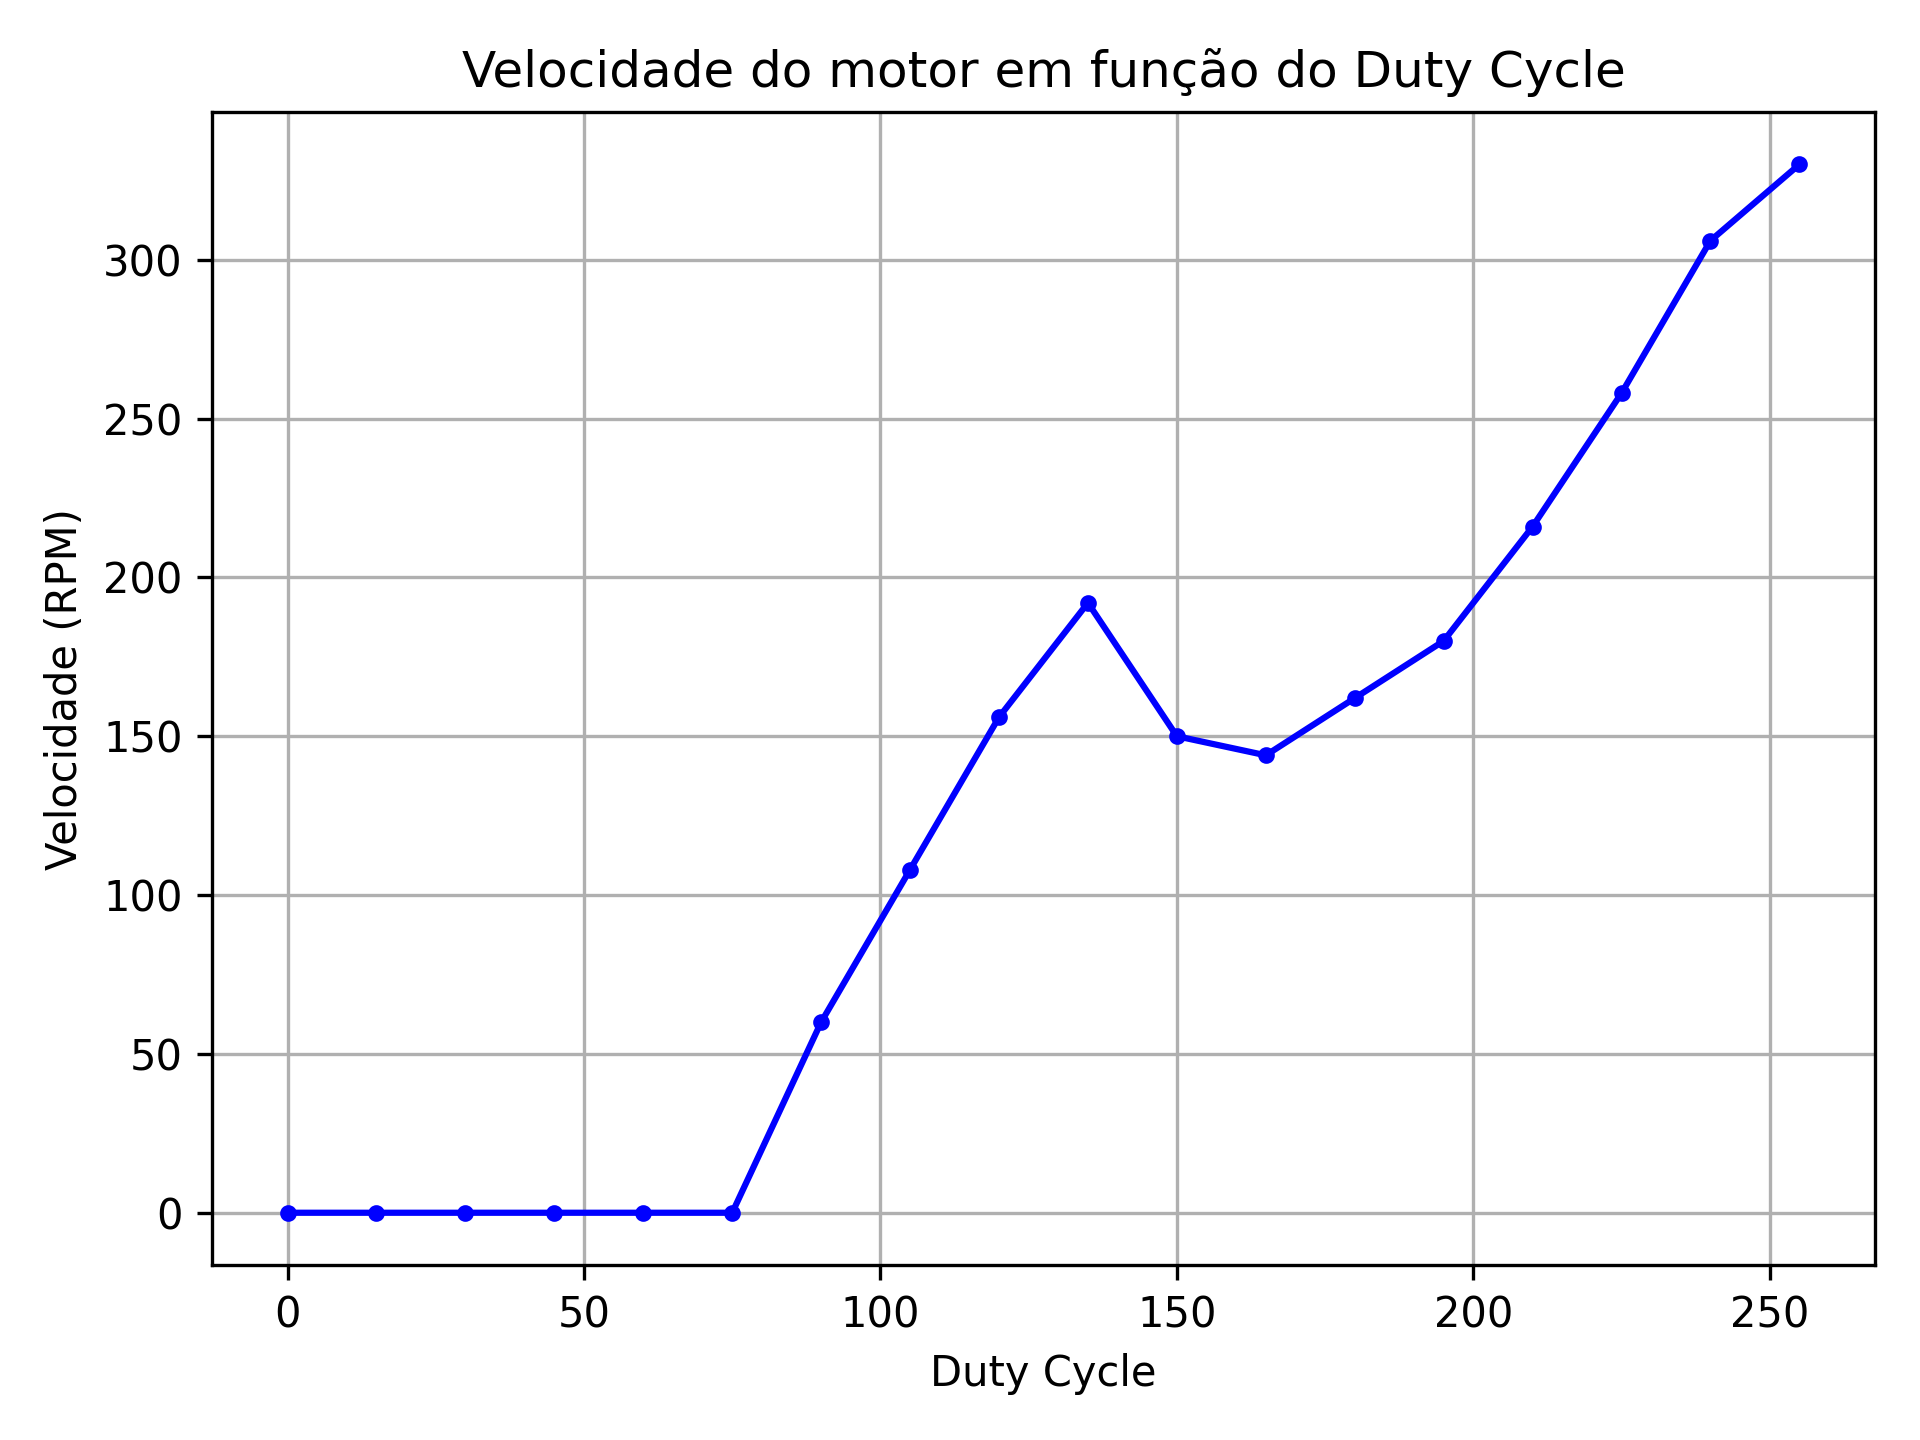
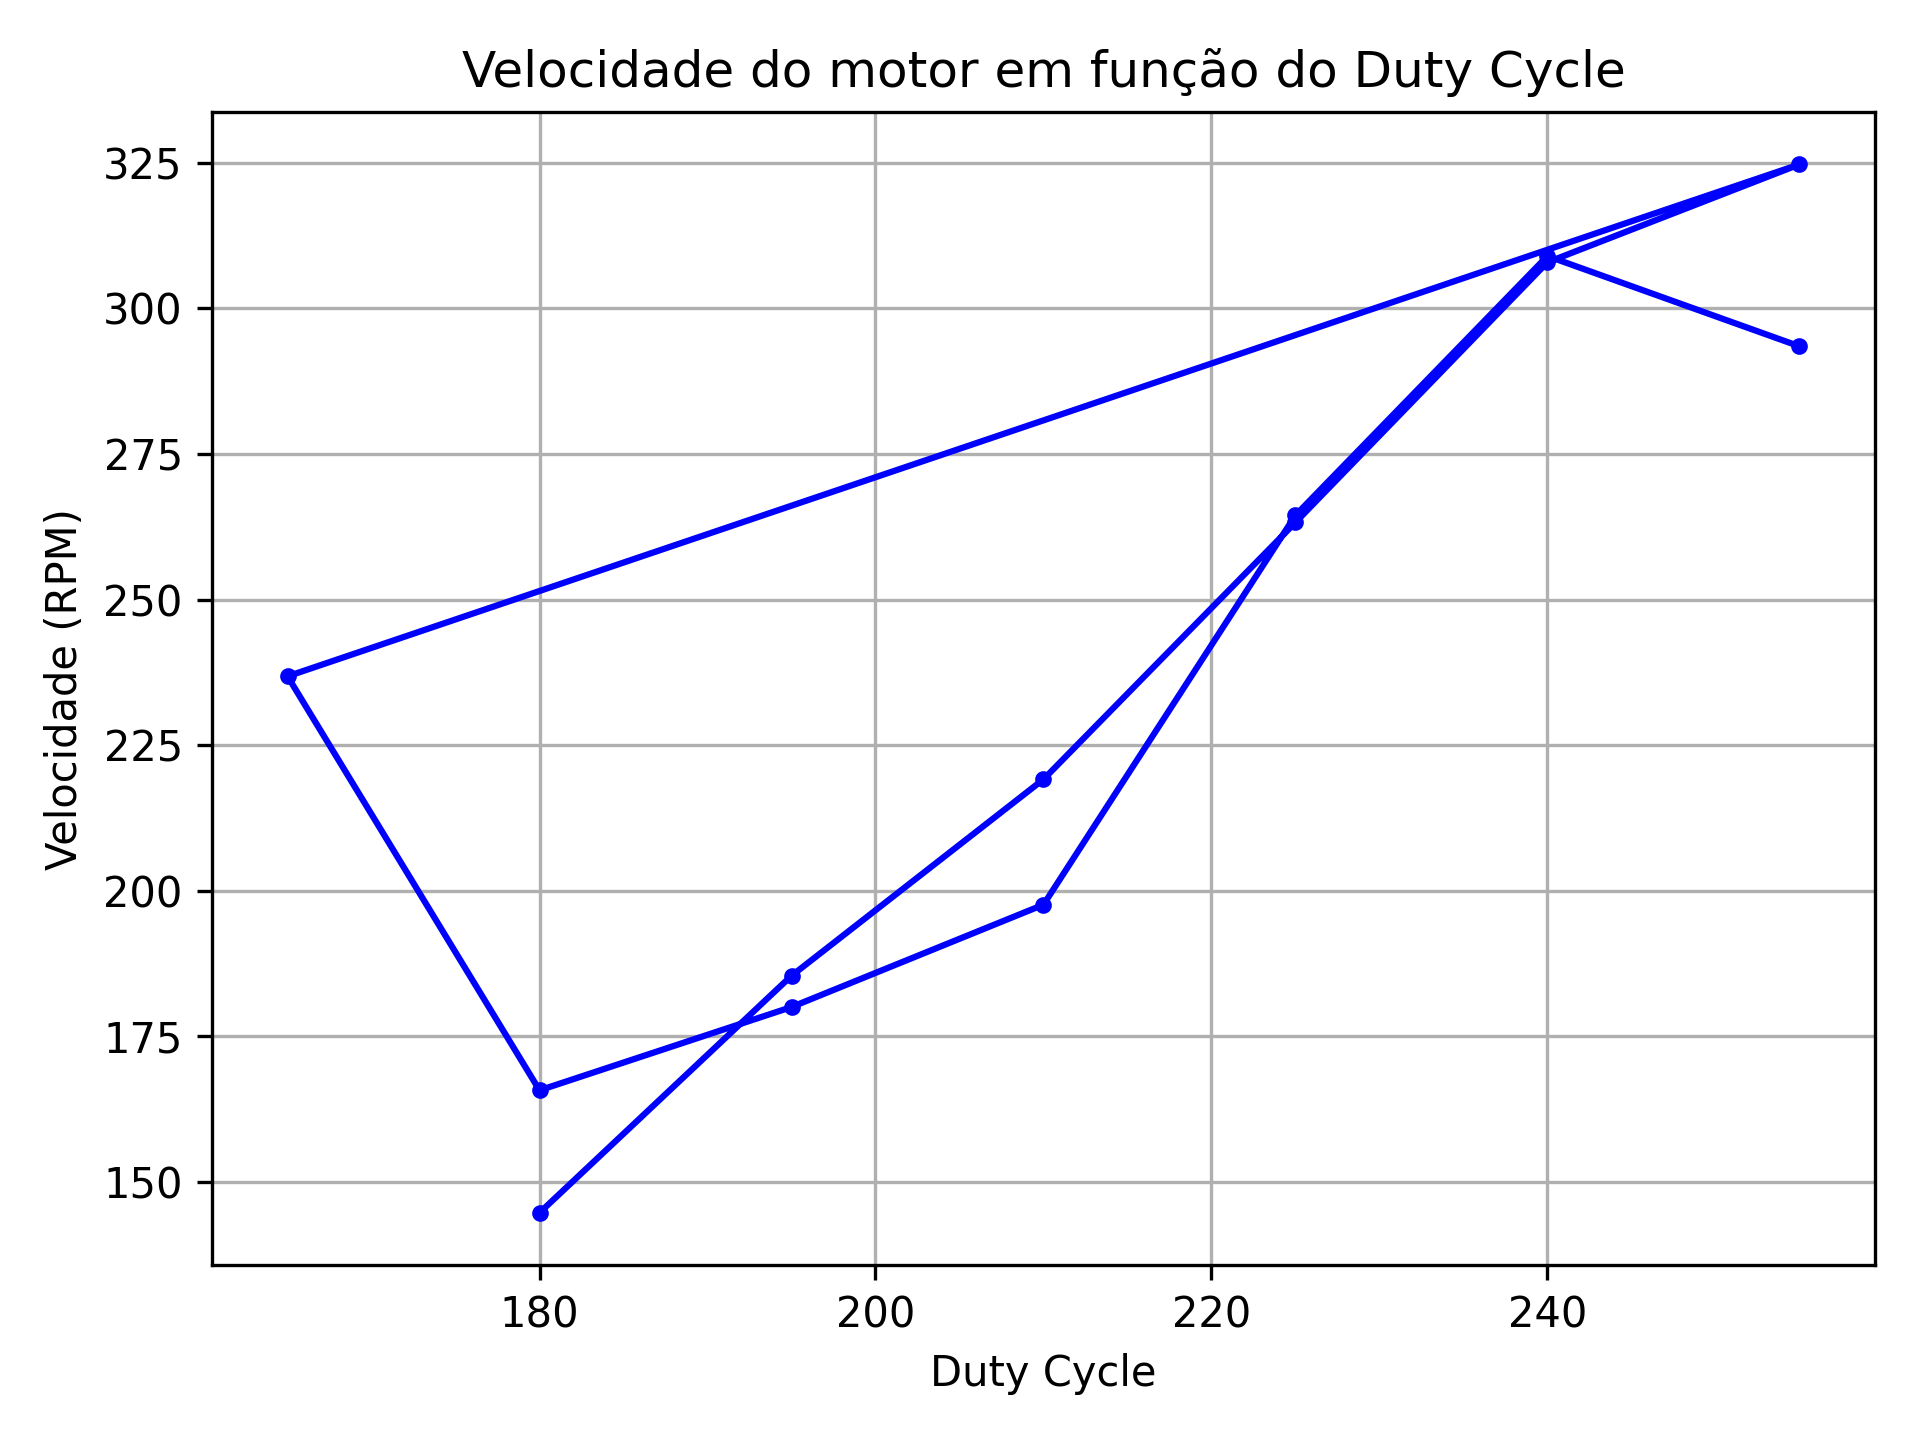
Testing data collection on embedded

diff --git a/motor testing/openLoop-test/src/main.cpp b/motor testing/openLoop-test/src/main.cpp
@@ -3,10 +3,9 @@
 
 int pwm = 0;
 
-void motor(int vel)
+void motor(int vel, int channel)
 {
-  ledcWrite(PWM_CHANNEL_LEFT, abs(vel));
-  ledcWrite(PWM_CHANNEL_RIGHT, abs(vel));
+  ledcWrite(channel, abs(vel));
 }
 
 void setup()
@@ -18,26 +17,23 @@ void setup()
   ledcAttachPin(PWM_LEFT, PWM_CHANNEL_LEFT);
   ledcAttachPin(PWM_RIGHT, PWM_CHANNEL_RIGHT);
 
-  pinMode(IN1_LEFT, OUTPUT);
+  pinMode(IN1_LEFT, OUTPUT); // talves seja melhor inverter o robo e essa vira roda direita
   pinMode(IN2_LEFT, OUTPUT);
   pinMode(IN1_RIGHT, OUTPUT);
   pinMode(IN2_RIGHT, OUTPUT);
 
-  digitalWrite(IN1_LEFT, LOW);
+  digitalWrite(IN1_LEFT, LOW); // girando horário
   digitalWrite(IN2_LEFT, HIGH);
-  digitalWrite(IN1_RIGHT, LOW);
-  digitalWrite(IN2_RIGHT, HIGH);
+  digitalWrite(IN1_RIGHT, HIGH); // girando horário
+  digitalWrite(IN2_RIGHT, LOW);
 
-  Serial.setTimeout(10);
+  pwm = 255;
+  motor(pwm, PWM_CHANNEL_LEFT);
+  delay(15000);
+  pwm = 0;
+  motor(pwm, PWM_CHANNEL_LEFT);
 }
 
 void loop()
 {
-  if (Serial.available() > 0)
-  {
-    String val = Serial.readStringUntil('\n'); // até newline
-    int pwm = val.toInt();
-    motor(pwm);
-    Serial.println(pwm);
-  }
 }

diff --git a/motor testing/speed-test-dcmotor/src/main.cpp b/motor testing/speed-test-dcmotor/src/main.cpp
@@ -7,22 +7,8 @@ uint32_t t = millis();
 
 void motor(int vel);
 
-void setup()
+void test()
 {
-  Serial.begin(115200);
-
-  // Configura o PWM
-  ledcSetup(PWM_CHANNEL, PWM_FREQ, PWM_RESOLUTION);
-  ledcAttachPin(PWM_LEFT, PWM_CHANNEL);
-
-  pinMode(IN1_LEFT, OUTPUT);
-  pinMode(IN2_LEFT, OUTPUT);
-  digitalWrite(IN1_LEFT, LOW);
-  digitalWrite(IN2_LEFT, HIGH);
-  encoderSetup();
-  t = millis();
-
-  delay(5000); // Wait for 1 second before starting the motor
   for (int i = 165; i <= 255; i += 15)
   {
     motor(i);
@@ -47,7 +33,30 @@ void setup()
     motor(i);
     delay(10);
   }
+}
 
+void setup()
+{
+  Serial.begin(115200);
+
+  // Configura o PWM
+  ledcSetup(PWM_CHANNEL, PWM_FREQ, PWM_RESOLUTION);
+  ledcAttachPin(PWM_LEFT, PWM_CHANNEL);
+
+  pinMode(IN1_LEFT, OUTPUT);
+  pinMode(IN2_LEFT, OUTPUT);
+  digitalWrite(IN1_LEFT, LOW);
+  digitalWrite(IN2_LEFT, HIGH);
+  encoderSetup();
+  t = millis();
+
+  delay(5000); // Wait for 5 second before starting the motor
+  test();
+
+  digitalWrite(IN1_LEFT, LOW);
+  digitalWrite(IN2_LEFT, HIGH);
+
+  test();
 }
 
 void loop()

diff --git a/motor testing/openLoop-test/include/config.h b/motor testing/openLoop-test/include/config.h
@@ -1,7 +1,6 @@
 #ifndef CONFIG_H
 #define CONFIG_H
 
-#define ENCODER 4 
 #define PWM_LEFT 14
 #define IN1_LEFT 27
 #define IN2_LEFT 26
@@ -10,21 +9,9 @@
 #define IN1_RIGHT 25
 #define IN2_RIGHT 33
 
-#define S1 35
-#define S2 34
-
-#define ENCODER_PPR 10
-
-#define MOVING_AVG_SIZE 10
-
-#define STOP_TIMEOUT 200000  //100 ms em microssegundos
-#define DEBOUNCE_US 17000 //17 ms
-
 #define PWM_CHANNEL_LEFT 0
 #define PWM_CHANNEL_RIGHT 1
 #define PWM_FREQ 15000      // 5 kHz
 #define PWM_RESOLUTION 8    // 8 bits -> duty 0-255
-
-#define WHEEL_DIAMETER 220 //wheel radius in mm
 
 #endif // CONFIG_H

diff --git a/collecting data/dataSampling.py b/collecting data/dataSampling.py
@@ -99,7 +99,7 @@ def set_speed():
             print(f"Velocidade do motor definida para: {speed_value}")
 
             if ser is not None and ser.is_open:
-                ser.write(bytes([speed_value]))  # envia valor único (0-255)
+                ser.write(f"{speed_value}\n".encode())
 
             return "Velocidade atualizada com sucesso", 200
         else:

diff --git a/motor testing/speed-test-dcmotor/include/config.h b/motor testing/speed-test-dcmotor/include/config.h
@@ -2,9 +2,10 @@
 #define CONFIG_H
 
 #define ENCODER 4 
-#define PWM_LEFT 14
-#define IN1_LEFT 27
-#define IN2_LEFT 26
+
+#define PWM_LEFT 32
+#define IN1_LEFT 25
+#define IN2_LEFT 33
 
 #define ENCODER_PPR 10
 

diff --git a/motor testing/speed-test-dcmotor/include/speed.h b/motor testing/speed-test-dcmotor/include/speed.h
@@ -4,7 +4,7 @@
 #include <Arduino.h>
 #include <config.h>
 
-volatile uint32_t delta;
+extern volatile uint32_t delta;
 
 void encoderISR();
 float calcSpeed();
